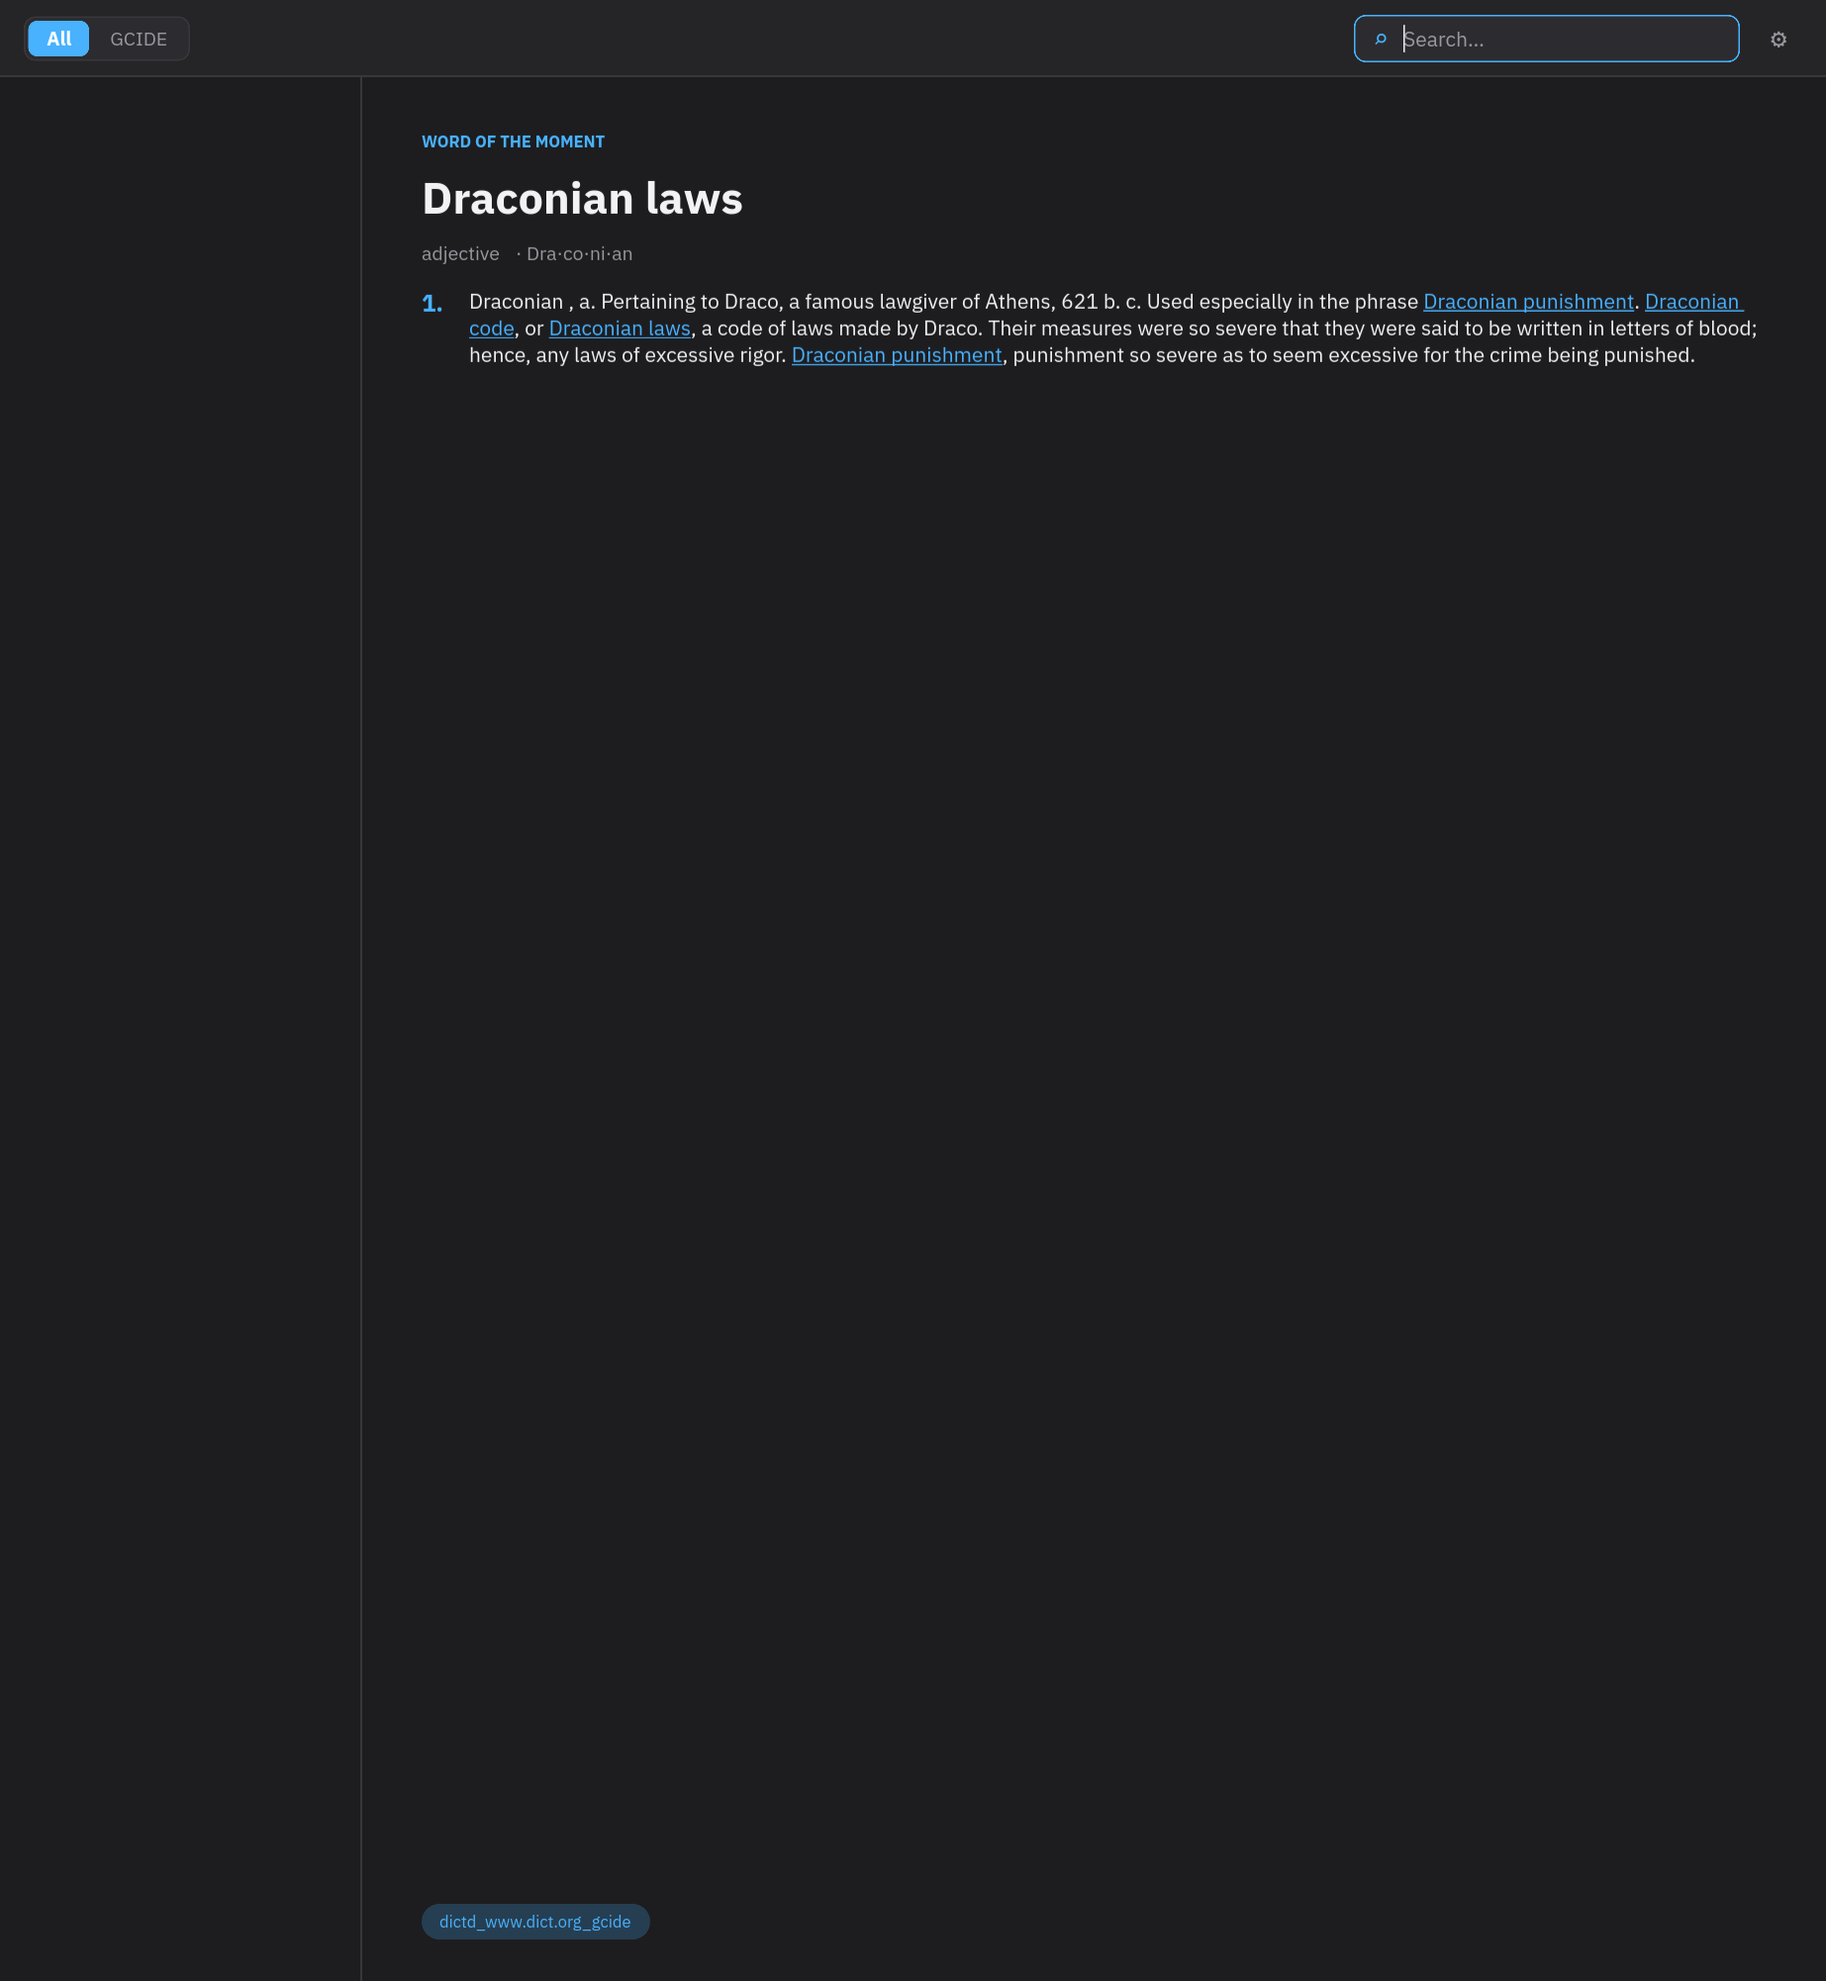
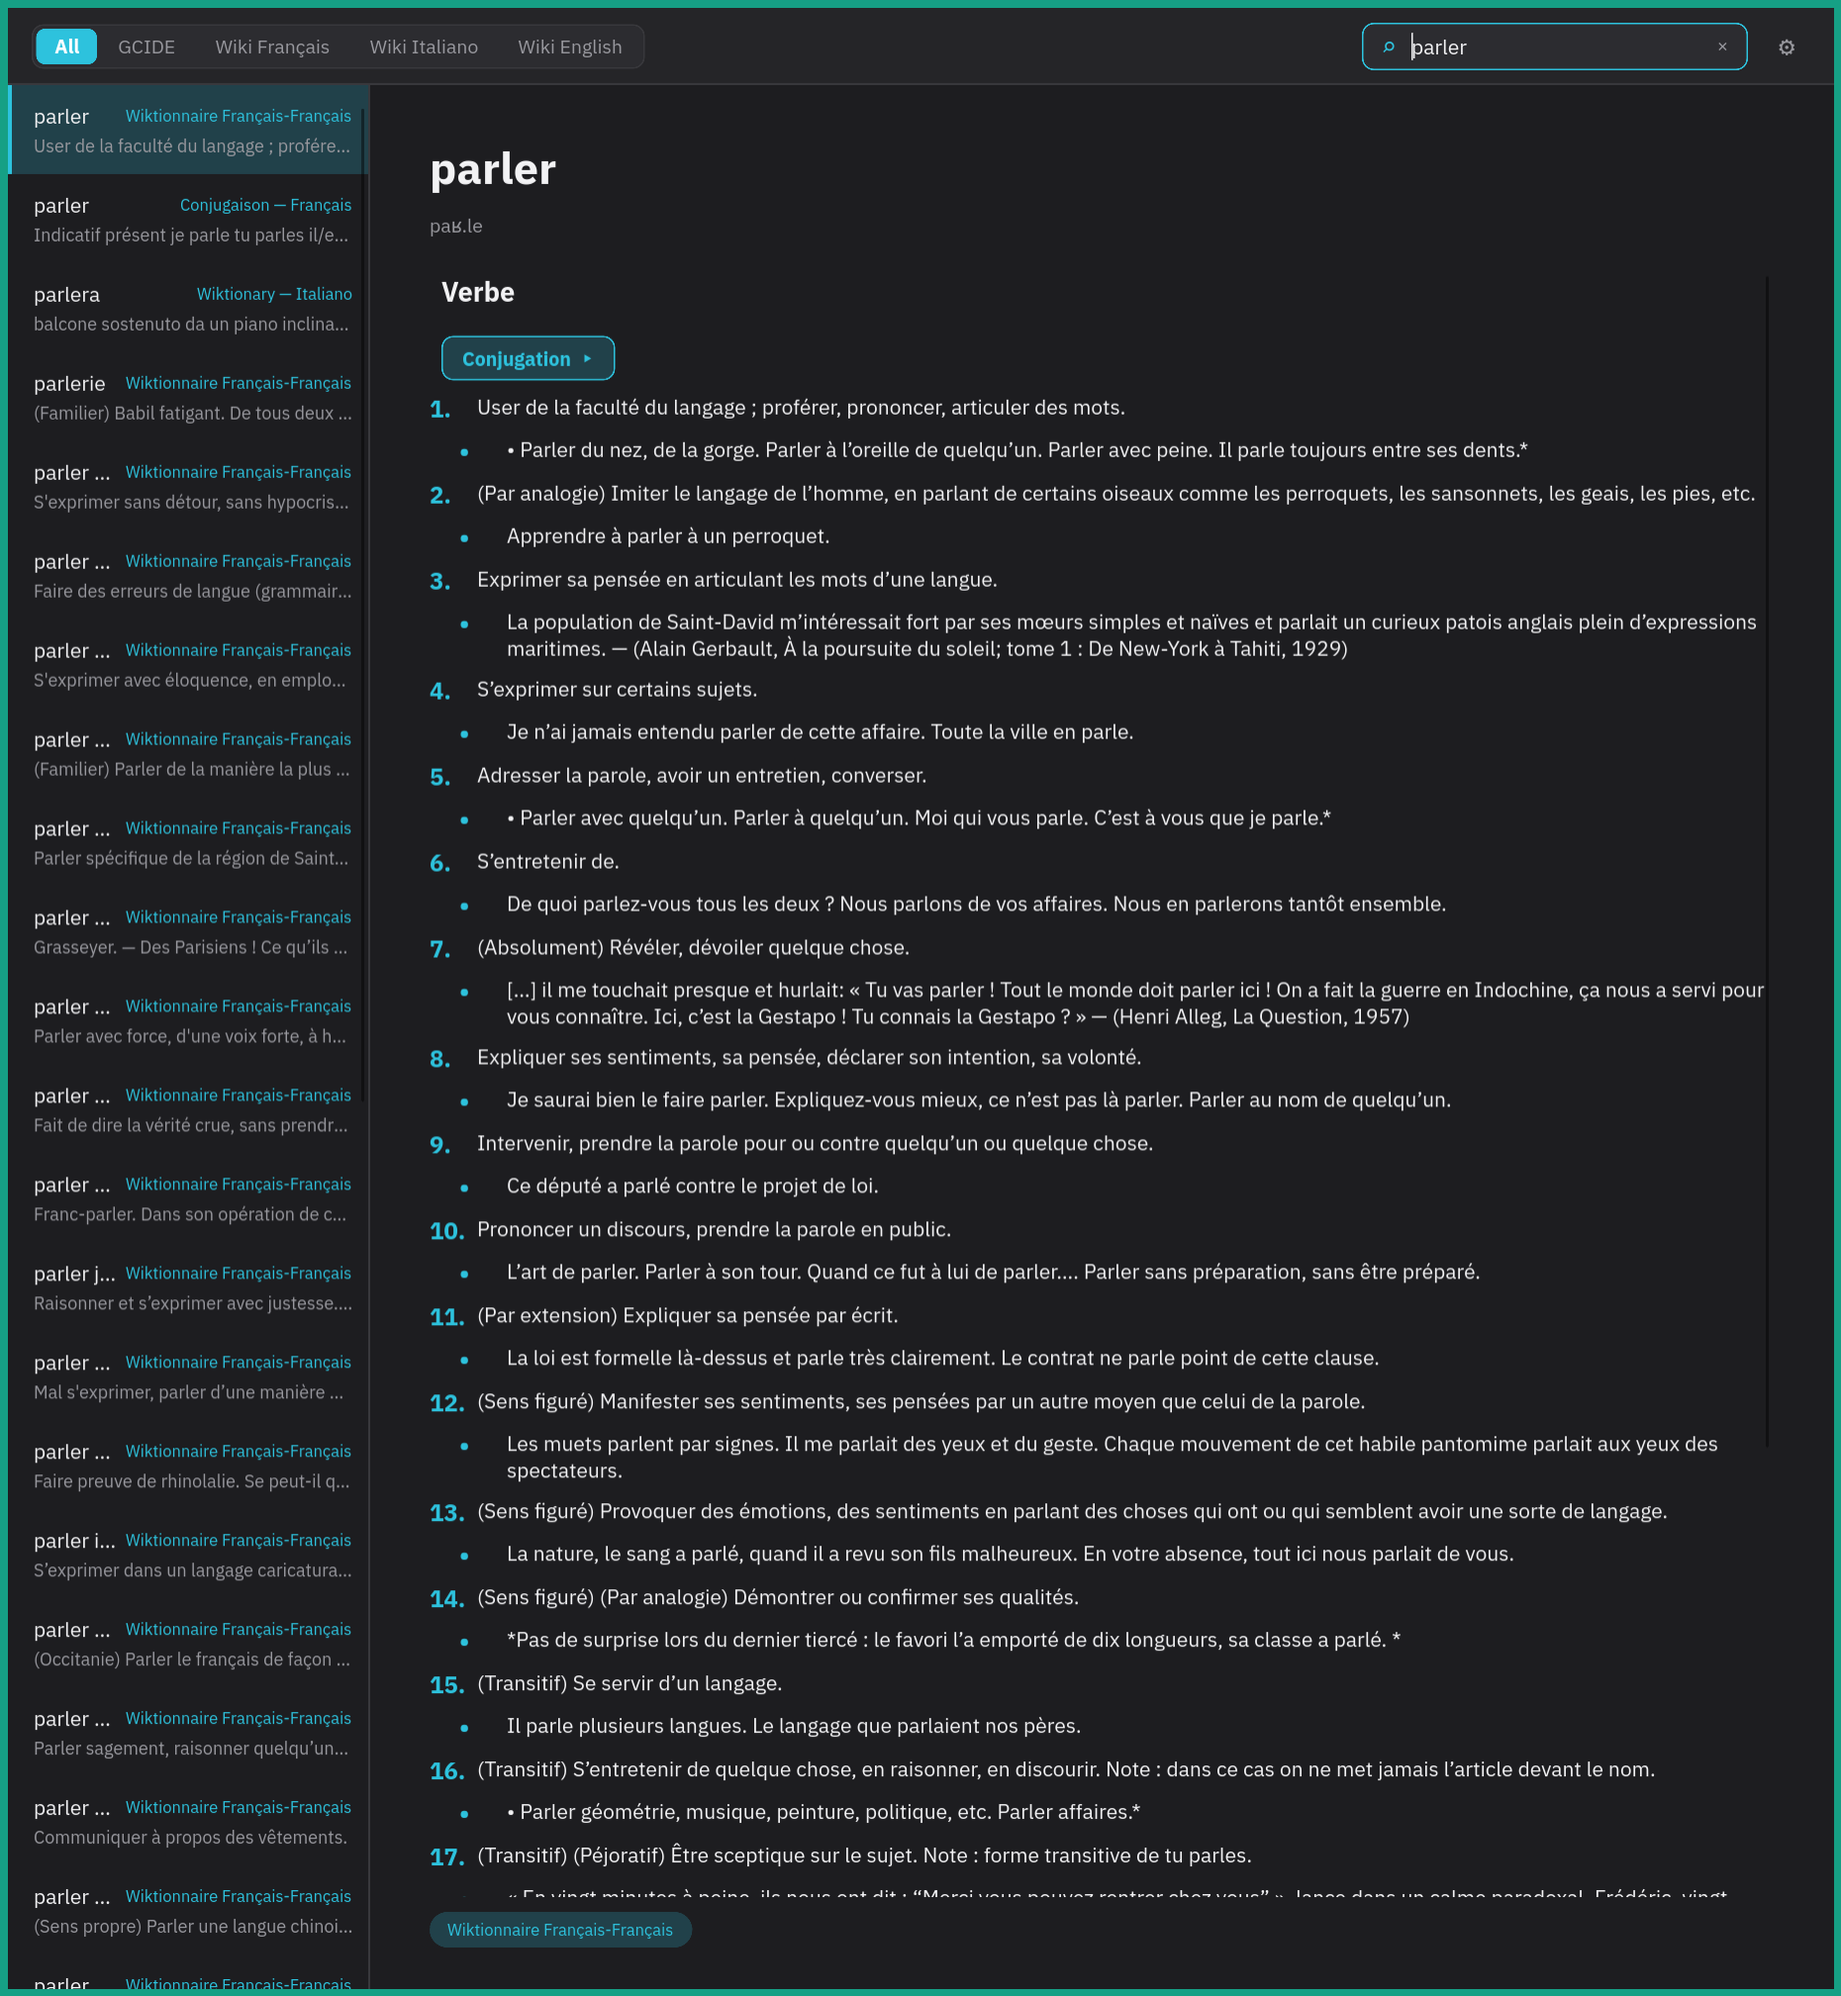
Update README

diff --git a/README.md b/README.md
@@ -37,11 +37,15 @@ directly from the app.
   clap-based CLI share the same core lookup library.
 - **Fuzzy, prefix & exact headword search** across every enabled dictionary at once.
 - **Downloadable dictionaries** — install monolingual Wiktionary editions for
-  seven languages from a built-in catalog, or add any StarDict file you own.
+  eight languages from a built-in catalog, or add any StarDict file you own.
 - **Clickable cross-references** — follow links between entries in the GUI.
-- **French verb conjugation** — full conjugation tables in both front-ends
-  (CLI `conjugate`, GUI panel). The conjugation data installs automatically
-  alongside the French Wiktionary dictionary.
+- **Verb conjugation** — full conjugation tables for French, Italian and English
+  in both front-ends (CLI `conjugate`, GUI panel). The French and Italian tables
+  install automatically alongside their Wiktionary dictionary; English ships
+  built in.
+- **Albert launcher integration** — search your dictionaries from the
+  [Albert](https://albertlauncher.github.io/) launcher and jump straight to a
+  definition.
 - **Bundled GCIDE** dictionary, so it works out of the box.
 - **System theme aware** (light/dark via the XDG desktop portal).
 
@@ -72,11 +76,12 @@ cargo run --release -p irondict -- --gui
 # Look up a word across all enabled dictionaries
 irondict lookup serendipity
 
-# Search headwords (fuzzy by default)
+# Search headwords (prefix by default; pass --mode fuzzy for typo tolerance)
 irondict search serendipity
 
-# Conjugate a French verb (needs the French dictionary installed)
+# Conjugate a verb — French, Italian or English (language auto-detected)
 irondict conjugate manger
+irondict conjugate mangiare --lang it
 
 # Download dictionaries from the built-in catalog
 irondict catalog            # list what's available
@@ -86,11 +91,35 @@ irondict uninstall fr-fr    # remove it (files + registration)
 # Manage dictionaries
 irondict add /path/to/dictionary.ifo
 irondict list
+irondict enable "Dictionary Name"
+irondict disable "Dictionary Name"
 irondict remove "Dictionary Name"
 ```
 
 In the GUI, the same actions live under **Settings → Downloads** (download,
 install, delete) and **Settings → Dictionaries** (add, enable, remove).
+
+## Albert launcher
+
+irondict ships a [Albert](https://albertlauncher.github.io/) plugin
+([`packaging/albert`](packaging/albert)) so you can search your dictionaries
+from the launcher: type a trigger followed by a word to list matching headwords,
+and hit Enter to open the irondict GUI straight to that definition (Alt+Enter
+copies the word instead).
+
+It registers a general `d ` handler that searches every dictionary, plus one per
+language-pinned dictionary keyed by its language code (`de ` English, `df `
+French, `di ` Italian by default) — all rebindable under Albert's *Triggers*
+settings. Each handler can be switched to fuzzy matching independently.
+
+Install (needs Albert with the Python plugin and `irondict` on `$PATH`):
+
+```sh
+cp -r packaging/albert/irondict ~/.local/share/albert/python/plugins/
+```
+
+Then enable **Python → IronDict** in Albert's settings. See
+[`packaging/albert/README.md`](packaging/albert/README.md) for details.
 
 ## Configuration
 
@@ -99,9 +128,12 @@ downloaded dictionaries under `~/.local/share/irondict/dictionaries/`. The searc
 index is cached under `~/.cache/irondict/` and rebuilt automatically when the
 dictionary set changes.
 
-Downloaded dictionaries are sourced from
-[xxyzz/wiktionary_stardict](https://github.com/xxyzz/wiktionary_stardict) and,
-being derived from Wiktionary, are licensed
+Downloaded dictionaries come from two places: the monolingual editions
+published by [xxyzz/wiktionary_stardict](https://github.com/xxyzz/wiktionary_stardict),
+and the Italian dictionary plus the French and Italian conjugation companions,
+which I build from [kaikki.org](https://kaikki.org/) Wiktextract data and publish
+in my own [DrPandemic/wikitionary-dictionaries](https://github.com/DrPandemic/wikitionary-dictionaries)
+repository. Both, being derived from Wiktionary, are licensed
 [CC BY-SA](https://creativecommons.org/licenses/by-sa/4.0/).
 
 The bundled English irregular-verb table used for conjugation is likewise
